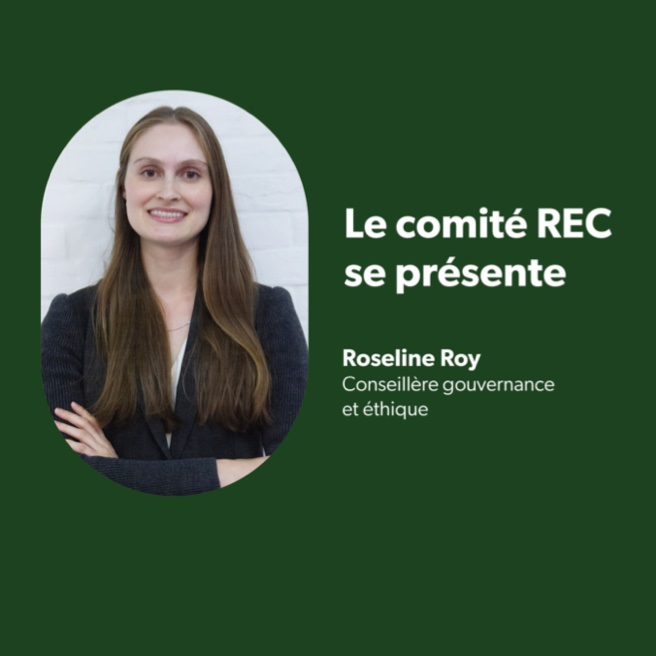
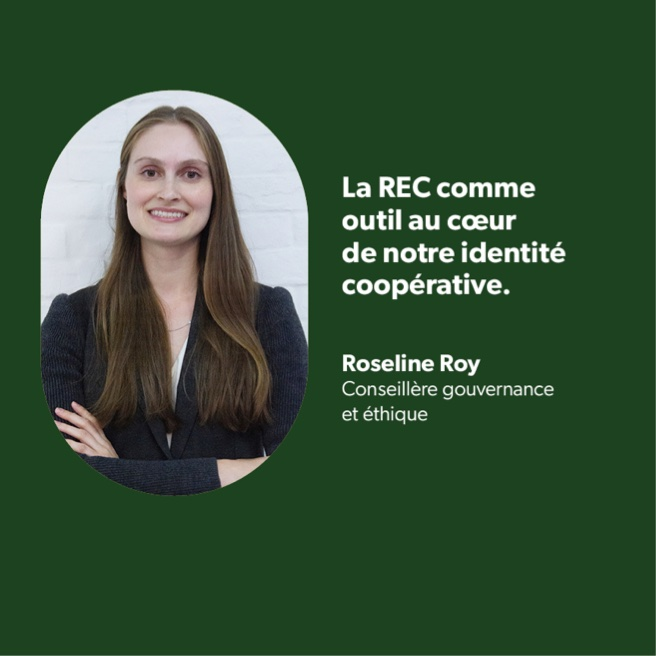
V2

diff --git a/index.hyperesources/index_hype_generated_script.js b/index.hyperesources/index_hype_generated_script.js
@@ -3,5 +3,5 @@
 (function(){(function m(){function k(a,b,c,d){var e=!1;null==window[a]&&(null==window[b]?(window[b]=[],window[b].push(m),a=document.getElementsByTagName("head")[0],b=document.createElement("script"),e=l,false==!0&&(e=""),b.type="text/javascript",""!=d&&(b.integrity=d,b.setAttribute("crossorigin","anonymous")),b.src=e+"/"+c,a.appendChild(b)):window[b].push(m),e=!0);return e}var l="index.hyperesources",f="index",g="index_hype_container";if(false==
 !1)try{for(var c=document.getElementsByTagName("script"),a=0;a<c.length;a++){var d=c[a].src,b=null!=d?d.indexOf("/index_hype_generated_script.js"):-1;if(-1!=b){l=d.substr(0,b);break}}}catch(p){}c=null==navigator.userAgentData&&navigator.userAgent.match(/MSIE (\d+\.\d+)/);c=parseFloat(c&&c[1])||null;d=!0==(null!=window.HYPE_772F||null!=window.HYPE_dtl_772F)||false==!0||null!=c&&10>c;a=!0==d?"HYPE-772.full.min.js":"HYPE-772.thin.min.js";c=!0==d?"F":"T";
 d=d?"":"";if(false==!1&&(a=k("HYPE_772"+c,"HYPE_dtl_772"+c,a,d),false==!0&&(a=a||k("HYPE_w_772","HYPE_wdtl_772","HYPE-772.waypoints.min.js","")),false==!0&&(a=a||k("Matter","HYPE_pdtl_772","HYPE-772.physics.min.js","")),a))return;d=window.HYPE.documents;if(null!=d[f]){b=1;a=f;do f=""+a+"-"+b++;while(null!=d[f]);for(var e=
-document.getElementsByTagName("div"),b=!1,a=0;a<e.length;a++)if(e[a].id==g&&null==e[a].getAttribute("HYP_dn")){var b=1,h=g;do g=""+h+"-"+b++;while(null!=document.getElementById(g));e[a].id=g;b=!0;break}if(!1==b)return}b=[];b=[{name:"untitledFunction",source:"function(hypeDocument, element, event) {\thypeDocument.goToTimeInTimelineNamed(2, 'carouselTimeline');\n\n\t\n}",identifier:"89"}];e={};h={};for(a=0;a<b.length;a++)try{h[b[a].identifier]=b[a].name,e[b[a].name]=eval("(function(){return "+b[a].source+"})();")}catch(n){window.console&&window.console.log(n),e[b[a].name]=function(){}}c=new window["HYPE_772"+c](f,g,{"10":{p:1,n:"REC4.jpg",g:"72",o:true,t:"@1x"},"2":{p:1,n:"REC2.jpg",g:"76",o:true,t:"@1x"},"15":{p:1,n:"REC3_2x.jpg",g:"74",o:true,t:"@2x"},"-2":{n:"blank.gif"},"3":{p:1,n:"REC2_2x.jpg",g:"76",o:true,t:"@2x"},"11":{p:1,n:"REC4_2x.jpg",g:"72",o:true,t:"@2x"},"4":{p:1,n:"REC7.jpg",g:"66",o:true,t:"@1x"},"5":{p:1,n:"REC7_2x.jpg",g:"66",o:true,t:"@2x"},"12":{p:1,n:"REC6.jpg",g:"68",o:true,t:"@1x"},"6":{p:1,n:"REC.jpg",g:"78",o:true,t:"@1x"},"13":{p:1,n:"REC6_2x.jpg",g:"68",o:true,t:"@2x"},"7":{p:1,n:"REC_2x.jpg",g:"78",o:true,t:"@2x"},"-1":{n:"PIE.htc"},"0":{p:1,n:"right-arrow.png",g:"168",o:true,t:"@1x"},"8":{p:1,n:"REC5.jpg",g:"70",o:true,t:"@1x"},"14":{p:1,n:"REC3.jpg",g:"74",o:true,t:"@1x"},"1":{p:1,n:"right-arrow_2x.png",g:"168",o:true,t:"@2x"},"9":{p:1,n:"REC5_2x.jpg",g:"70",o:true,t:"@2x"}},
-l,[],e,[{n:"Untitled Scene",o:"1",X:[0]}],[{o:"3",p:"600px",cA:false,Y:650,Z:650,L:[],c:"#FFF",bY:1,d:650,U:{},T:{"63":{q:false,z:6.01,i:"63",n:"Carousel timeline",a:[{f:"c",y:0,z:1,i:"a",e:-650,s:0,o:"193"},{f:"c",y:0,z:1,i:"e",e:1,s:0.5,o:"185"},{f:"c",y:0,z:1,i:"e",e:0.5,s:1.5,o:"187"},{f:"c",y:0,z:1,i:"e",e:1,s:-1,o:"186"},{f:"c",p:2,y:1,z:1,i:"ActionHandler",e:{a:[{p:7,b:"63",symbolOid:"2"}]},s:{a:[{p:7,b:"63",symbolOid:"2"}]},o:"63"},{f:"c",y:1,z:1,i:"a",e:-1300,s:-650,o:"193"},{f:"c",y:1,z:1,i:"e",e:1,s:0.5,o:"189"},{f:"c",y:1,z:1,i:"e",e:0.5,s:1,o:"185"},{y:1,i:"e",s:0.5,z:0,o:"187",f:"c"},{y:1,i:"e",s:1,z:0,o:"186",f:"c"},{f:"c",p:2,y:2,z:1,i:"ActionHandler",e:{a:[{p:7,b:"63",symbolOid:"2"}]},s:{a:[{p:7,b:"63",symbolOid:"2"}]},o:"63"},{f:"c",y:2,z:1,i:"a",e:-1950,s:-1300,o:"193"},{f:"c",y:2,z:1,i:"e",e:1,s:0.5,o:"190"},{f:"c",y:2,z:1.01,i:"e",e:0.5,s:1,o:"189"},{y:2,i:"e",s:0.5,z:0,o:"185",f:"c"},{f:"c",p:2,y:3,z:1.01,i:"ActionHandler",e:{a:[{p:7,b:"63",symbolOid:"2"}]},s:{a:[{p:7,b:"63",symbolOid:"2"}]},o:"63"},{f:"c",y:3,z:1.01,i:"a",e:-2600,s:-1950,o:"193"},{f:"c",y:3,z:1,i:"e",e:1,s:0.5,o:"184"},{f:"c",y:3,z:1,i:"e",e:0.5,s:1,o:"190"},{y:3.01,i:"e",s:0.5,z:0,o:"189",f:"c"},{f:"c",y:4,z:1.01,i:"e",e:1,s:0.5,o:"188"},{f:"c",y:4,z:1,i:"e",e:0.5,s:1,o:"184"},{y:4,i:"e",s:0.5,z:0,o:"190",f:"c"},{f:"c",p:2,y:4.01,z:0.28,i:"ActionHandler",e:{a:[{p:7,b:"63",symbolOid:"2"}]},s:{a:[{p:7,b:"63",symbolOid:"2"}]},o:"63"},{f:"c",y:4.01,z:0.29,i:"a",e:-3250,s:-2600,o:"193"},{f:"c",p:2,y:4.29,z:1.01,i:"ActionHandler",e:{a:[{p:7,b:"63",symbolOid:"2"}]},s:{a:[{p:7,b:"63",symbolOid:"2"}]},o:"63"},{f:"c",y:5,z:1,i:"a",e:-3895,s:-3250,o:"193"},{f:"c",y:5,z:1.01,i:"e",e:1,s:0.5,o:"191"},{f:"c",y:5,z:1,i:"e",e:0,s:1,o:"192"},{y:5,i:"e",s:0.5,z:0,o:"184",f:"c"},{f:"c",y:5.01,z:0.29,i:"e",e:0.5,s:1,o:"188"},{f:"c",p:2,y:6,z:0,i:"ActionHandler",s:{a:[{p:7,b:"63",symbolOid:"2"}]},o:"63"},{y:6,i:"a",s:-3895,z:0,o:"193",f:"c"},{y:6,i:"e",s:0,z:0,o:"192",f:"c"},{y:6,i:"e",s:0.5,z:0,o:"188",f:"c"},{y:6.01,i:"e",s:1,z:0,o:"191",f:"c"}],f:30,b:[]},kTimelineDefaultIdentifier:{q:false,z:0,i:"kTimelineDefaultIdentifier",n:"Main Timeline",a:[],f:30,b:[]}},bZ:180,O:["203","202","183","195","193","182","201","194","199","197","196","200","198","186","187","185","189","190","184","188","191","192"],n:"Untitled Layout","_":0,v:{"200":{h:"68",p:"no-repeat",x:"visible",a:3247,dB:"img",q:"100% 100%",j:"absolute",r:"inline",z:5,bF:"193",b:0,d:649.92,k:"div",c:649.92},"194":{h:"76",p:"no-repeat",x:"visible",a:650,dB:"img",q:"100% 100%",j:"absolute",r:"inline",z:9,bF:"193",b:0,d:649.92,k:"div",c:649.92},"186":{p:"no-repeat",c:47,q:"100% 100%",d:47,r:"inline",cQ:0.7,e:0,aW:0,f:180,cR:0.7,aP:"pointer",h:"168",bF:"183",j:"absolute",x:"visible",k:"div",dB:"img",z:7,a:185,b:578},"199":{h:"74",p:"no-repeat",x:"visible",a:1299,dB:"img",q:"100% 100%",j:"absolute",r:"inline",z:8,bF:"193",b:0,d:649.92,k:"div",c:649.92},"190":{b:581,z:11,K:"Solid",c:35,L:"Solid",d:35,M:2,e:0.5,cQ:0.5,N:2,dB:"button",O:2,cR:0.5,g:"#FFF",P:2,bF:"183",j:"absolute",k:"div",aI:"50%",aJ:"50%",aK:"50%",aL:"50%",A:"#FFF",B:"#FFF",r:"inline",C:"#FFF",cY:"0",D:"#FFF",aP:"pointer",x:"visible",I:"Solid",a:317,J:"Solid"},"182":{bN:{a:[{p:10,y:false,c:0,A:0,K:1,symbolOid:"2",b:"63"}]},x:"hidden",a:0,dB:"button",b:0,j:"absolute",aA:{a:[{p:0}]},z:4,k:"div",d:650,c:650,cQ:1.01,aP:"pointer",cR:1.01},"201":{c:307,d:648,I:"None",J:"None",K:"None",L:"None",aP:"pointer",M:0,N:0,A:"#FFF",x:"visible",j:"absolute",B:"#FFF",aA:{a:[{b:"63",p:8,z:false,symbolOid:"2",J:false}]},O:0,C:"#FFF",z:18,dB:"button",D:"#FFF",P:0,k:"div",a:343,b:0},"195":{h:"78",p:"no-repeat",x:"visible",a:0,dB:"img",q:"100% 100%",j:"absolute",r:"inline",z:10,bF:"193",b:0,d:649.92,k:"div",c:649.92},"187":{c:35,d:35,r:"inline",I:"Solid",e:1,J:"Solid",cQ:0.5,K:"Solid",cR:0.5,g:"#FFF",L:"Solid",aP:"pointer",M:2,bF:"183",N:2,j:"absolute",x:"visible",O:2,B:"#FFF",P:2,A:"#FFF",C:"#FFF",z:14,dB:"button",D:"#FFF",aK:"50%",aJ:"50%",k:"div",aI:"50%",a:224,aL:"50%",b:581},"191":{b:581,z:8,K:"Solid",c:35,L:"Solid",d:35,M:2,e:0.5,cQ:0.5,N:2,dB:"button",O:2,cR:0.5,g:"#FFF",P:2,bF:"183",j:"absolute",k:"div",aI:"50%",aJ:"50%",aK:"50%",aL:"50%",A:"#FFF",B:"#FFF",r:"inline",C:"#FFF",cY:"0",D:"#FFF",aP:"pointer",x:"visible",I:"Solid",a:410,J:"Solid"},"183":{x:"hidden",k:"div",c:4548,d:650,z:2,a:1,j:"absolute",bF:"182",b:0},"202":{c:307,d:648,I:"None",J:"None",K:"None",L:"None",aP:"pointer",M:0,N:0,A:"#FFF",x:"visible",j:"absolute",B:"#FFF",aA:{a:[{b:"63",p:8,z:true,symbolOid:"2",J:false}]},O:0,C:"#FFF",z:17,dB:"button",D:"#FFF",P:0,k:"div",a:0,b:0},"196":{h:"70",p:"no-repeat",x:"visible",a:2597,dB:"img",q:"100% 100%",j:"absolute",r:"inline",z:6,bF:"193",b:0,d:649.92,k:"div",c:649.92},"188":{b:581,z:9,K:"Solid",c:35,L:"Solid",d:35,M:2,e:0.5,cQ:0.5,N:2,dB:"button",O:2,cR:0.5,g:"#FFF",P:2,bF:"183",j:"absolute",k:"div",aI:"50%",aJ:"50%",aK:"50%",aL:"50%",A:"#FFF",B:"#FFF",r:"inline",C:"#FFF",cY:"0",D:"#FFF",aP:"pointer",x:"visible",I:"Solid",a:379,J:"Solid"},"192":{h:"168",p:"no-repeat",x:"visible",a:438,q:"100% 100%",b:578,j:"absolute",r:"inline",bF:"183",z:6,dB:"img",d:47,k:"div",cQ:0.7,e:1,c:47,aP:"pointer",cR:0.7},"184":{b:581,z:10,K:"Solid",c:35,L:"Solid",d:35,M:2,e:0.5,cQ:0.5,N:2,dB:"button",O:2,cR:0.5,g:"#FFF",P:2,bF:"183",j:"absolute",k:"div",aI:"50%",aJ:"50%",aK:"50%",aL:"50%",A:"#FFF",B:"#FFF",r:"inline",C:"#FFF",cY:"0",D:"#FFF",aP:"pointer",x:"visible",I:"Solid",a:348,J:"Solid"},"203":{c:656,d:648,I:"None",J:"None",K:"None",g:"#1D421F",L:"None",aP:"pointer",M:0,N:0,A:"#FFF",x:"visible",j:"absolute",B:"#FFF",P:0,O:0,C:"#FFF",z:1,dB:"button",D:"#FFF",aA:{a:[{b:"63",p:8,z:false,symbolOid:"2",J:false}]},k:"div",a:-6,b:0},"197":{h:"72",p:"no-repeat",x:"visible",a:1948,dB:"img",q:"100% 100%",j:"absolute",r:"inline",z:7,bF:"193",b:0,d:649.92,k:"div",c:649.92},"189":{b:581,z:12,K:"Solid",c:35,L:"Solid",d:35,M:2,e:0.5,cQ:0.5,N:2,dB:"button",O:2,cR:0.5,g:"#FFF",P:2,bF:"183",j:"absolute",k:"div",aI:"50%",aJ:"50%",aK:"50%",aL:"50%",A:"#FFF",B:"#FFF",r:"inline",C:"#FFF",cY:"0",D:"#FFF",aP:"pointer",x:"visible",I:"Solid",a:286,J:"Solid"},"193":{x:"visible",b:0,k:"div",c:650,tY:0.5,d:650,z:1,a:0,bF:"182",j:"absolute",tX:0.5},"185":{b:581,z:13,K:"Solid",c:35,L:"Solid",d:35,M:2,e:0.5,cQ:0.5,N:2,dB:"button",O:2,cR:0.5,g:"#FFF",P:2,bF:"183",j:"absolute",k:"div",aI:"50%",aJ:"50%",aK:"50%",aL:"50%",A:"#FFF",B:"#FFF",r:"inline",C:"#FFF",cY:"0",D:"#FFF",aP:"pointer",x:"visible",I:"Solid",a:255,J:"Solid"},"198":{h:"66",p:"no-repeat",x:"visible",a:3896,dB:"img",q:"100% 100%",j:"absolute",r:"inline",z:4,bF:"193",b:0,d:649.92,k:"div",c:649.92}}}],{},h,{},null,false,true,-1,true,true,false,true,true);d[f]=c.API;document.getElementById(g).setAttribute("HYP_dn",f);c.z_o(this.body)})();})();
+document.getElementsByTagName("div"),b=!1,a=0;a<e.length;a++)if(e[a].id==g&&null==e[a].getAttribute("HYP_dn")){var b=1,h=g;do g=""+h+"-"+b++;while(null!=document.getElementById(g));e[a].id=g;b=!0;break}if(!1==b)return}b=[];b=[{name:"untitledFunction",source:"function(hypeDocument, element, event) {\thypeDocument.goToTimeInTimelineNamed(2, 'carouselTimeline');\n\n\t\n}",identifier:"89"}];e={};h={};for(a=0;a<b.length;a++)try{h[b[a].identifier]=b[a].name,e[b[a].name]=eval("(function(){return "+b[a].source+"})();")}catch(n){window.console&&window.console.log(n),e[b[a].name]=function(){}}c=new window["HYPE_772"+c](f,g,{"10":{p:1,n:"REC6.jpg",g:"68",o:true,t:"@1x"},"2":{p:1,n:"REC2.jpg",g:"76",o:true,t:"@1x"},"15":{p:1,n:"REC_2x.jpg",g:"78",o:true,t:"@2x"},"-2":{n:"blank.gif"},"3":{p:1,n:"REC2_2x.jpg",g:"76",o:true,t:"@2x"},"11":{p:1,n:"REC6_2x.jpg",g:"68",o:true,t:"@2x"},"4":{p:1,n:"REC7.jpg",g:"66",o:true,t:"@1x"},"5":{p:1,n:"REC7_2x.jpg",g:"66",o:true,t:"@2x"},"12":{p:1,n:"REC3.jpg",g:"74",o:true,t:"@1x"},"6":{p:1,n:"REC5.jpg",g:"70",o:true,t:"@1x"},"13":{p:1,n:"REC3_2x.jpg",g:"74",o:true,t:"@2x"},"7":{p:1,n:"REC5_2x.jpg",g:"70",o:true,t:"@2x"},"-1":{n:"PIE.htc"},"0":{p:1,n:"right-arrow.png",g:"168",o:true,t:"@1x"},"8":{p:1,n:"REC4.jpg",g:"72",o:true,t:"@1x"},"14":{p:1,n:"REC.jpg",g:"78",o:true,t:"@1x"},"1":{p:1,n:"right-arrow_2x.png",g:"168",o:true,t:"@2x"},"9":{p:1,n:"REC4_2x.jpg",g:"72",o:true,t:"@2x"}},
+l,[],e,[{n:"Untitled Scene",o:"1",X:[0]}],[{o:"3",p:"600px",cA:false,Y:650,Z:650,L:[],c:"#FFF",bY:1,d:650,U:{},T:{"63":{q:false,z:6.01,i:"63",n:"Carousel timeline",a:[{f:"c",y:0,z:1,i:"a",e:-650,s:0,o:"193"},{f:"c",y:0,z:1,i:"e",e:1,s:0.5,o:"185"},{f:"c",y:0,z:1,i:"e",e:0.5,s:1.5,o:"187"},{f:"c",y:0,z:1,i:"e",e:1,s:-1,o:"186"},{f:"c",p:2,y:1,z:1,i:"ActionHandler",e:{a:[{p:7,b:"63",symbolOid:"2"}]},s:{a:[{p:7,b:"63",symbolOid:"2"}]},o:"63"},{f:"c",y:1,z:1,i:"a",e:-1300,s:-650,o:"193"},{f:"c",y:1,z:1,i:"e",e:1,s:0.5,o:"189"},{f:"c",y:1,z:1,i:"e",e:0.5,s:1,o:"185"},{y:1,i:"e",s:0.5,z:0,o:"187",f:"c"},{y:1,i:"e",s:1,z:0,o:"186",f:"c"},{f:"c",p:2,y:2,z:1,i:"ActionHandler",e:{a:[{p:7,b:"63",symbolOid:"2"}]},s:{a:[{p:7,b:"63",symbolOid:"2"}]},o:"63"},{f:"c",y:2,z:1,i:"a",e:-1950,s:-1300,o:"193"},{f:"c",y:2,z:1,i:"e",e:1,s:0.5,o:"190"},{f:"c",y:2,z:1.01,i:"e",e:0.5,s:1,o:"189"},{y:2,i:"e",s:0.5,z:0,o:"185",f:"c"},{f:"c",p:2,y:3,z:1.01,i:"ActionHandler",e:{a:[{p:7,b:"63",symbolOid:"2"}]},s:{a:[{p:7,b:"63",symbolOid:"2"}]},o:"63"},{f:"c",y:3,z:1.01,i:"a",e:-2600,s:-1950,o:"193"},{f:"c",y:3,z:1,i:"e",e:1,s:0.5,o:"184"},{f:"c",y:3,z:1,i:"e",e:0.5,s:1,o:"190"},{y:3.01,i:"e",s:0.5,z:0,o:"189",f:"c"},{f:"c",y:4,z:1.01,i:"e",e:1,s:0.5,o:"188"},{f:"c",y:4,z:1,i:"e",e:0.5,s:1,o:"184"},{y:4,i:"e",s:0.5,z:0,o:"190",f:"c"},{f:"c",p:2,y:4.01,z:0.28,i:"ActionHandler",e:{a:[{p:7,b:"63",symbolOid:"2"}]},s:{a:[{p:7,b:"63",symbolOid:"2"}]},o:"63"},{f:"c",y:4.01,z:0.29,i:"a",e:-3250,s:-2600,o:"193"},{f:"c",p:2,y:4.29,z:1.01,i:"ActionHandler",e:{a:[{p:7,b:"63",symbolOid:"2"}]},s:{a:[{p:7,b:"63",symbolOid:"2"}]},o:"63"},{f:"c",y:5,z:1,i:"a",e:-3895,s:-3250,o:"193"},{f:"c",y:5,z:1.01,i:"e",e:1,s:0.5,o:"191"},{f:"c",y:5,z:1,i:"e",e:0,s:1,o:"192"},{y:5,i:"e",s:0.5,z:0,o:"184",f:"c"},{f:"c",y:5.01,z:0.29,i:"e",e:0.5,s:1,o:"188"},{f:"c",p:2,y:6,z:0,i:"ActionHandler",s:{a:[{p:7,b:"63",symbolOid:"2"}]},o:"63"},{y:6,i:"a",s:-3895,z:0,o:"193",f:"c"},{y:6,i:"e",s:0,z:0,o:"192",f:"c"},{y:6,i:"e",s:0.5,z:0,o:"188",f:"c"},{y:6.01,i:"e",s:1,z:0,o:"191",f:"c"}],f:30,b:[]},kTimelineDefaultIdentifier:{q:false,z:0,i:"kTimelineDefaultIdentifier",n:"Main Timeline",a:[],f:30,b:[]}},bZ:180,O:["203","202","183","195","193","182","201","194","199","197","196","200","198","186","187","185","189","190","184","188","191","192"],n:"Untitled Layout","_":0,v:{"200":{h:"68",p:"no-repeat",x:"visible",a:3247,dB:"img",q:"100% 100%",j:"absolute",r:"inline",z:5,bF:"193",b:0,d:649.92,k:"div",c:649.92},"194":{h:"76",p:"no-repeat",x:"visible",a:650,dB:"img",q:"100% 100%",j:"absolute",r:"inline",z:9,bF:"193",b:0,d:649.92,k:"div",c:649.92},"186":{p:"no-repeat",c:47,q:"100% 100%",d:47,r:"inline",cQ:0.7,e:0,aW:0,f:180,cR:0.7,aP:"pointer",h:"168",bF:"183",j:"absolute",x:"visible",k:"div",dB:"img",z:7,a:185,b:578},"199":{h:"74",p:"no-repeat",x:"visible",a:1299,dB:"img",q:"100% 100%",j:"absolute",r:"inline",z:8,bF:"193",b:0,d:649.92,k:"div",c:649.92},"190":{b:581,z:11,K:"Solid",c:35,L:"Solid",d:35,M:2,e:0.5,cQ:0.5,N:2,dB:"button",O:2,cR:0.5,g:"#FFF",P:2,bF:"183",j:"absolute",k:"div",aI:"50%",aJ:"50%",aK:"50%",aL:"50%",A:"#FFF",B:"#FFF",r:"inline",C:"#FFF",cY:"0",D:"#FFF",aP:"pointer",x:"visible",I:"Solid",a:317,J:"Solid"},"182":{bN:{a:[{p:10,y:false,c:0,A:0,K:1,symbolOid:"2",b:"63"}]},x:"hidden",a:0,dB:"button",b:0,j:"absolute",aA:{a:[{p:0}]},z:4,k:"div",d:650,c:650,cQ:1.01,aP:"pointer",cR:1.01},"201":{c:307,d:648,I:"None",J:"None",K:"None",L:"None",aP:"pointer",M:0,N:0,A:"#FFF",x:"visible",j:"absolute",B:"#FFF",aA:{a:[{b:"63",p:8,z:false,symbolOid:"2",J:false}]},O:0,C:"#FFF",z:18,dB:"button",D:"#FFF",P:0,k:"div",a:343,b:0},"195":{h:"78",p:"no-repeat",x:"visible",a:0,dB:"img",q:"100% 100%",j:"absolute",r:"inline",z:10,bF:"193",b:0,d:649.92,k:"div",c:649.92},"187":{c:35,d:35,r:"inline",I:"Solid",e:1,J:"Solid",cQ:0.5,K:"Solid",cR:0.5,g:"#FFF",L:"Solid",aP:"pointer",M:2,bF:"183",N:2,j:"absolute",x:"visible",O:2,B:"#FFF",P:2,A:"#FFF",C:"#FFF",z:14,dB:"button",D:"#FFF",aK:"50%",aJ:"50%",k:"div",aI:"50%",a:224,aL:"50%",b:581},"191":{b:581,z:8,K:"Solid",c:35,L:"Solid",d:35,M:2,e:0.5,cQ:0.5,N:2,dB:"button",O:2,cR:0.5,g:"#FFF",P:2,bF:"183",j:"absolute",k:"div",aI:"50%",aJ:"50%",aK:"50%",aL:"50%",A:"#FFF",B:"#FFF",r:"inline",C:"#FFF",cY:"0",D:"#FFF",aP:"pointer",x:"visible",I:"Solid",a:410,J:"Solid"},"183":{x:"hidden",k:"div",c:4548,d:650,z:2,a:1,j:"absolute",bF:"182",b:0},"202":{c:307,d:648,I:"None",J:"None",K:"None",L:"None",aP:"pointer",M:0,N:0,A:"#FFF",x:"visible",j:"absolute",B:"#FFF",aA:{a:[{b:"63",p:8,z:true,symbolOid:"2",J:false}]},O:0,C:"#FFF",z:17,dB:"button",D:"#FFF",P:0,k:"div",a:0,b:0},"196":{h:"70",p:"no-repeat",x:"visible",a:2597,dB:"img",q:"100% 100%",j:"absolute",r:"inline",z:6,bF:"193",b:0,d:649.92,k:"div",c:649.92},"188":{b:581,z:9,K:"Solid",c:35,L:"Solid",d:35,M:2,e:0.5,cQ:0.5,N:2,dB:"button",O:2,cR:0.5,g:"#FFF",P:2,bF:"183",j:"absolute",k:"div",aI:"50%",aJ:"50%",aK:"50%",aL:"50%",A:"#FFF",B:"#FFF",r:"inline",C:"#FFF",cY:"0",D:"#FFF",aP:"pointer",x:"visible",I:"Solid",a:379,J:"Solid"},"192":{h:"168",p:"no-repeat",x:"visible",a:438,q:"100% 100%",b:578,j:"absolute",r:"inline",bF:"183",z:6,dB:"img",d:47,k:"div",cQ:0.7,e:1,c:47,aP:"pointer",cR:0.7},"184":{b:581,z:10,K:"Solid",c:35,L:"Solid",d:35,M:2,e:0.5,cQ:0.5,N:2,dB:"button",O:2,cR:0.5,g:"#FFF",P:2,bF:"183",j:"absolute",k:"div",aI:"50%",aJ:"50%",aK:"50%",aL:"50%",A:"#FFF",B:"#FFF",r:"inline",C:"#FFF",cY:"0",D:"#FFF",aP:"pointer",x:"visible",I:"Solid",a:348,J:"Solid"},"203":{c:656,d:656,I:"None",J:"None",K:"None",g:"#1D421F",L:"None",aP:"pointer",M:0,N:0,A:"#FFF",x:"visible",j:"absolute",B:"#FFF",P:0,O:0,C:"#FFF",z:1,dB:"button",D:"#FFF",aA:{a:[{b:"63",p:8,z:false,symbolOid:"2",J:false}]},k:"div",a:-6,b:0},"197":{h:"72",p:"no-repeat",x:"visible",a:1948,dB:"img",q:"100% 100%",j:"absolute",r:"inline",z:7,bF:"193",b:0,d:649.92,k:"div",c:649.92},"189":{b:581,z:12,K:"Solid",c:35,L:"Solid",d:35,M:2,e:0.5,cQ:0.5,N:2,dB:"button",O:2,cR:0.5,g:"#FFF",P:2,bF:"183",j:"absolute",k:"div",aI:"50%",aJ:"50%",aK:"50%",aL:"50%",A:"#FFF",B:"#FFF",r:"inline",C:"#FFF",cY:"0",D:"#FFF",aP:"pointer",x:"visible",I:"Solid",a:286,J:"Solid"},"193":{x:"visible",b:0,k:"div",c:650,tY:0.5,d:650,z:1,a:0,bF:"182",j:"absolute",tX:0.5},"185":{b:581,z:13,K:"Solid",c:35,L:"Solid",d:35,M:2,e:0.5,cQ:0.5,N:2,dB:"button",O:2,cR:0.5,g:"#FFF",P:2,bF:"183",j:"absolute",k:"div",aI:"50%",aJ:"50%",aK:"50%",aL:"50%",A:"#FFF",B:"#FFF",r:"inline",C:"#FFF",cY:"0",D:"#FFF",aP:"pointer",x:"visible",I:"Solid",a:255,J:"Solid"},"198":{h:"66",p:"no-repeat",x:"visible",a:3896,dB:"img",q:"100% 100%",j:"absolute",r:"inline",z:4,bF:"193",b:0,d:649.92,k:"div",c:649.92}}}],{},h,{},null,false,true,-1,true,true,false,true,true);d[f]=c.API;document.getElementById(g).setAttribute("HYP_dn",f);c.z_o(this.body)})();})();

diff --git a/index.html b/index.html
@@ -24,7 +24,7 @@
 	<!-- copy these lines to your document: -->
 
 	<div id="index_hype_container" class="HYPE_document" style="margin:auto;position:relative;width:650px;height:650px;overflow:hidden;">
-		<script type="text/javascript" charset="utf-8" src="index.hyperesources/index_hype_generated_script.js?38906"></script>
+		<script type="text/javascript" charset="utf-8" src="index.hyperesources/index_hype_generated_script.js?10069"></script>
 	</div>
 
 	<!-- end copy -->
